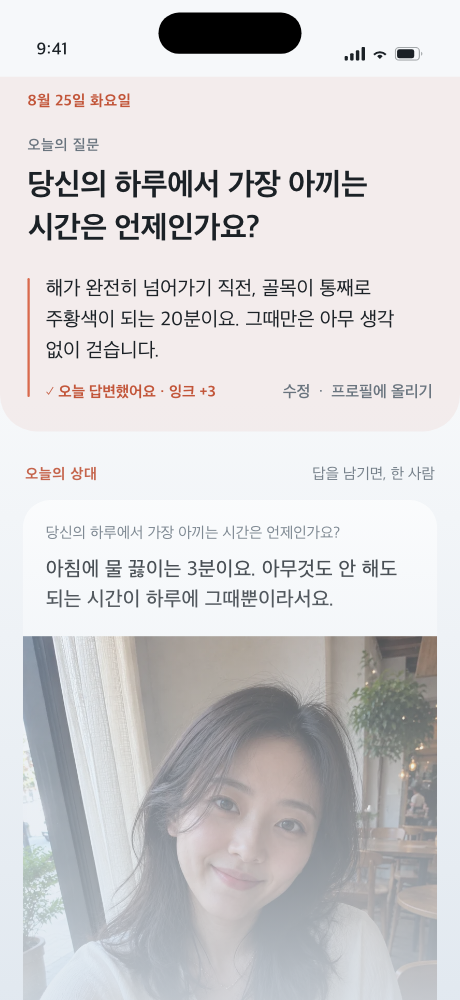
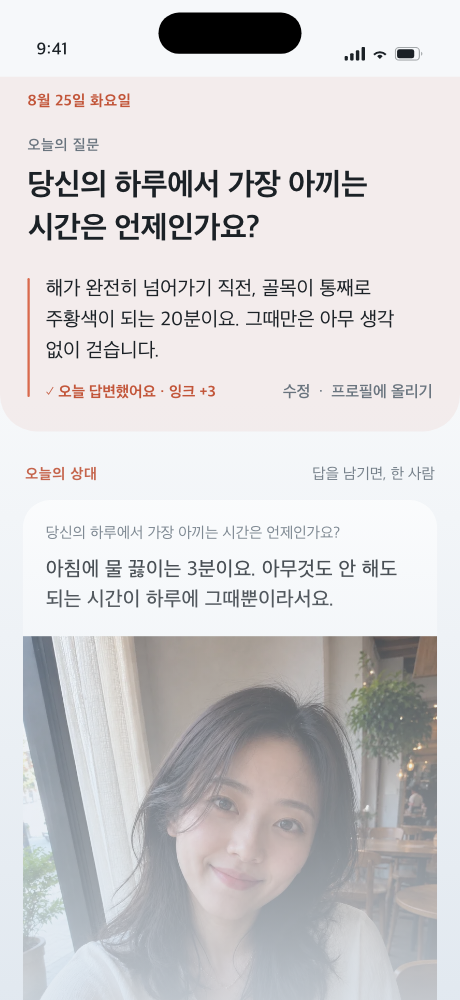
Refine the natural selfie used by web and store previews

diff --git a/store/v3/README.md b/store/v3/README.md
@@ -5,7 +5,7 @@
 웹 판은 굽는 김에 webp로 줄여 `web/public/screens/`에 바로 꽂습니다 — 손으로 옮기면 언젠가 한쪽만 갱신되고, 실제로 그런 적이 있습니다(스토어는 v3인데 랜딩은 v1이었습니다).
 
 2026-09-07부터 웹의 첫 화면과 문답·오늘의 상대 미리보기는 `web/src/components/ProfilePreview.astro`에서 그립니다.
-사진은 `web/public/photos/cafe-selfie-2026-09.webp`를 공유하며, 원본과 생성 기록은 `design/photos/`에 있습니다.
+사진은 `web/public/photos/cafe-selfie-refined-2026-09.webp`를 공유하며, 원본과 생성 기록은 `design/photos/`에 있습니다.
 이 두 미리보기는 `screens/1-discover.webp`와 `screens/4-answers.webp`를 더 이상 화면에 사용하지 않습니다.
 스토어 제출 이미지도 같은 셀카 사진을 공유합니다. 실제 계정의 사진은 변경하지 않습니다.
 
@@ -60,7 +60,7 @@
 
 ## 사진
 
-주인공 조용한위로는 웹과 공유하는 `web/public/photos/cafe-selfie-2026-09.webp`를 씁니다. 나머지 예시 프로필은 `store/personas/`의 기존 이미지를 유지합니다.
+주인공 조용한위로는 웹과 공유하는 `web/public/photos/cafe-selfie-refined-2026-09.webp`를 씁니다. 나머지 예시 프로필은 `store/personas/`의 기존 이미지를 유지합니다.
 사람 사진이 들어가면 애플 심사에서 실제 인물로 오인될 소지가 없도록
 생성 이미지임을 유지하고, 실제 유저 사진은 절대 쓰지 않습니다.
 

diff --git a/design/photos/selfie-refined-prompt-2026-09.md b/design/photos/selfie-refined-prompt-2026-09.md
@@ -1,0 +1,9 @@
+# 셀카 인상 다듬기
+
+내장 image_gen 편집 도구를 사용했다. 원본: `cafe-selfie-refined-2026-09.png`. 웹·스토어 공용: `../../web/public/photos/cafe-selfie-refined-2026-09.webp`.
+
+```text
+Use case: identity-preserve
+Edit target: supplied fictional Korean adult woman, age 28, in a casual cafe selfie.
+Request: Make her subtly more beautiful and radiant while preserving the convincing ordinary smartphone selfie quality that the user likes. Keep her recognizable identity and Korean appearance. Gently refine the eye definition with natural delicate lashes, a lively relaxed gaze and subtle catchlights. Slightly more graceful relaxed smile with fresh muted rosy lips and very light everyday makeup. Flatter her existing features with a small improvement in soft face lighting, without changing her age, whitening skin, radically reshaping her face or enlarging eyes. Preserve visible skin pores, mild natural asymmetry, wispy hair, mundane cafe background, ivory blouse, necklace, single-arm selfie pose, framing and 4:5 vertical composition. The result should be an attractive real-looking adult woman's casual unfiltered selfie, not a professional model shoot. Change only subtle facial styling and expression; preserve background and clothing. No doll face, glass skin, beauty-filter smoothing, exaggerated makeup, studio lighting, cinematic color, excessive sharpness, text or watermark.
+```

diff --git a/design/photos/README.md b/design/photos/README.md
@@ -11,7 +11,7 @@
 
 ## 현재 사용 사진 — 일상 셀카
 
-2026-09-07 사용자 요청에 따라 `cafe-selfie-2026-09.png`로 교체했다. 웹과 각 스토어 스크린샷이 `../../web/public/photos/cafe-selfie-2026-09.webp`를 공유한다. 내장 image_gen 편집 도구로 생성했으며, 최종 프롬프트는 [selfie-prompt-2026-09.md](selfie-prompt-2026-09.md)에 기록했다. 아래는 이전 카페 인물사진의 기록이다.
+2026-09-07 사용자 요청에 따라 `cafe-selfie-refined-2026-09.png`로 교체했다. 웹과 각 스토어 스크린샷이 `../../web/public/photos/cafe-selfie-refined-2026-09.webp`를 공유한다. 내장 image_gen 편집 도구로 생성했으며, 최종 프롬프트는 [selfie-refined-prompt-2026-09.md](selfie-refined-prompt-2026-09.md)에 기록했다. 아래는 이전 카페 인물사진의 기록이다.
 
 ## 최종 생성 프롬프트
 
